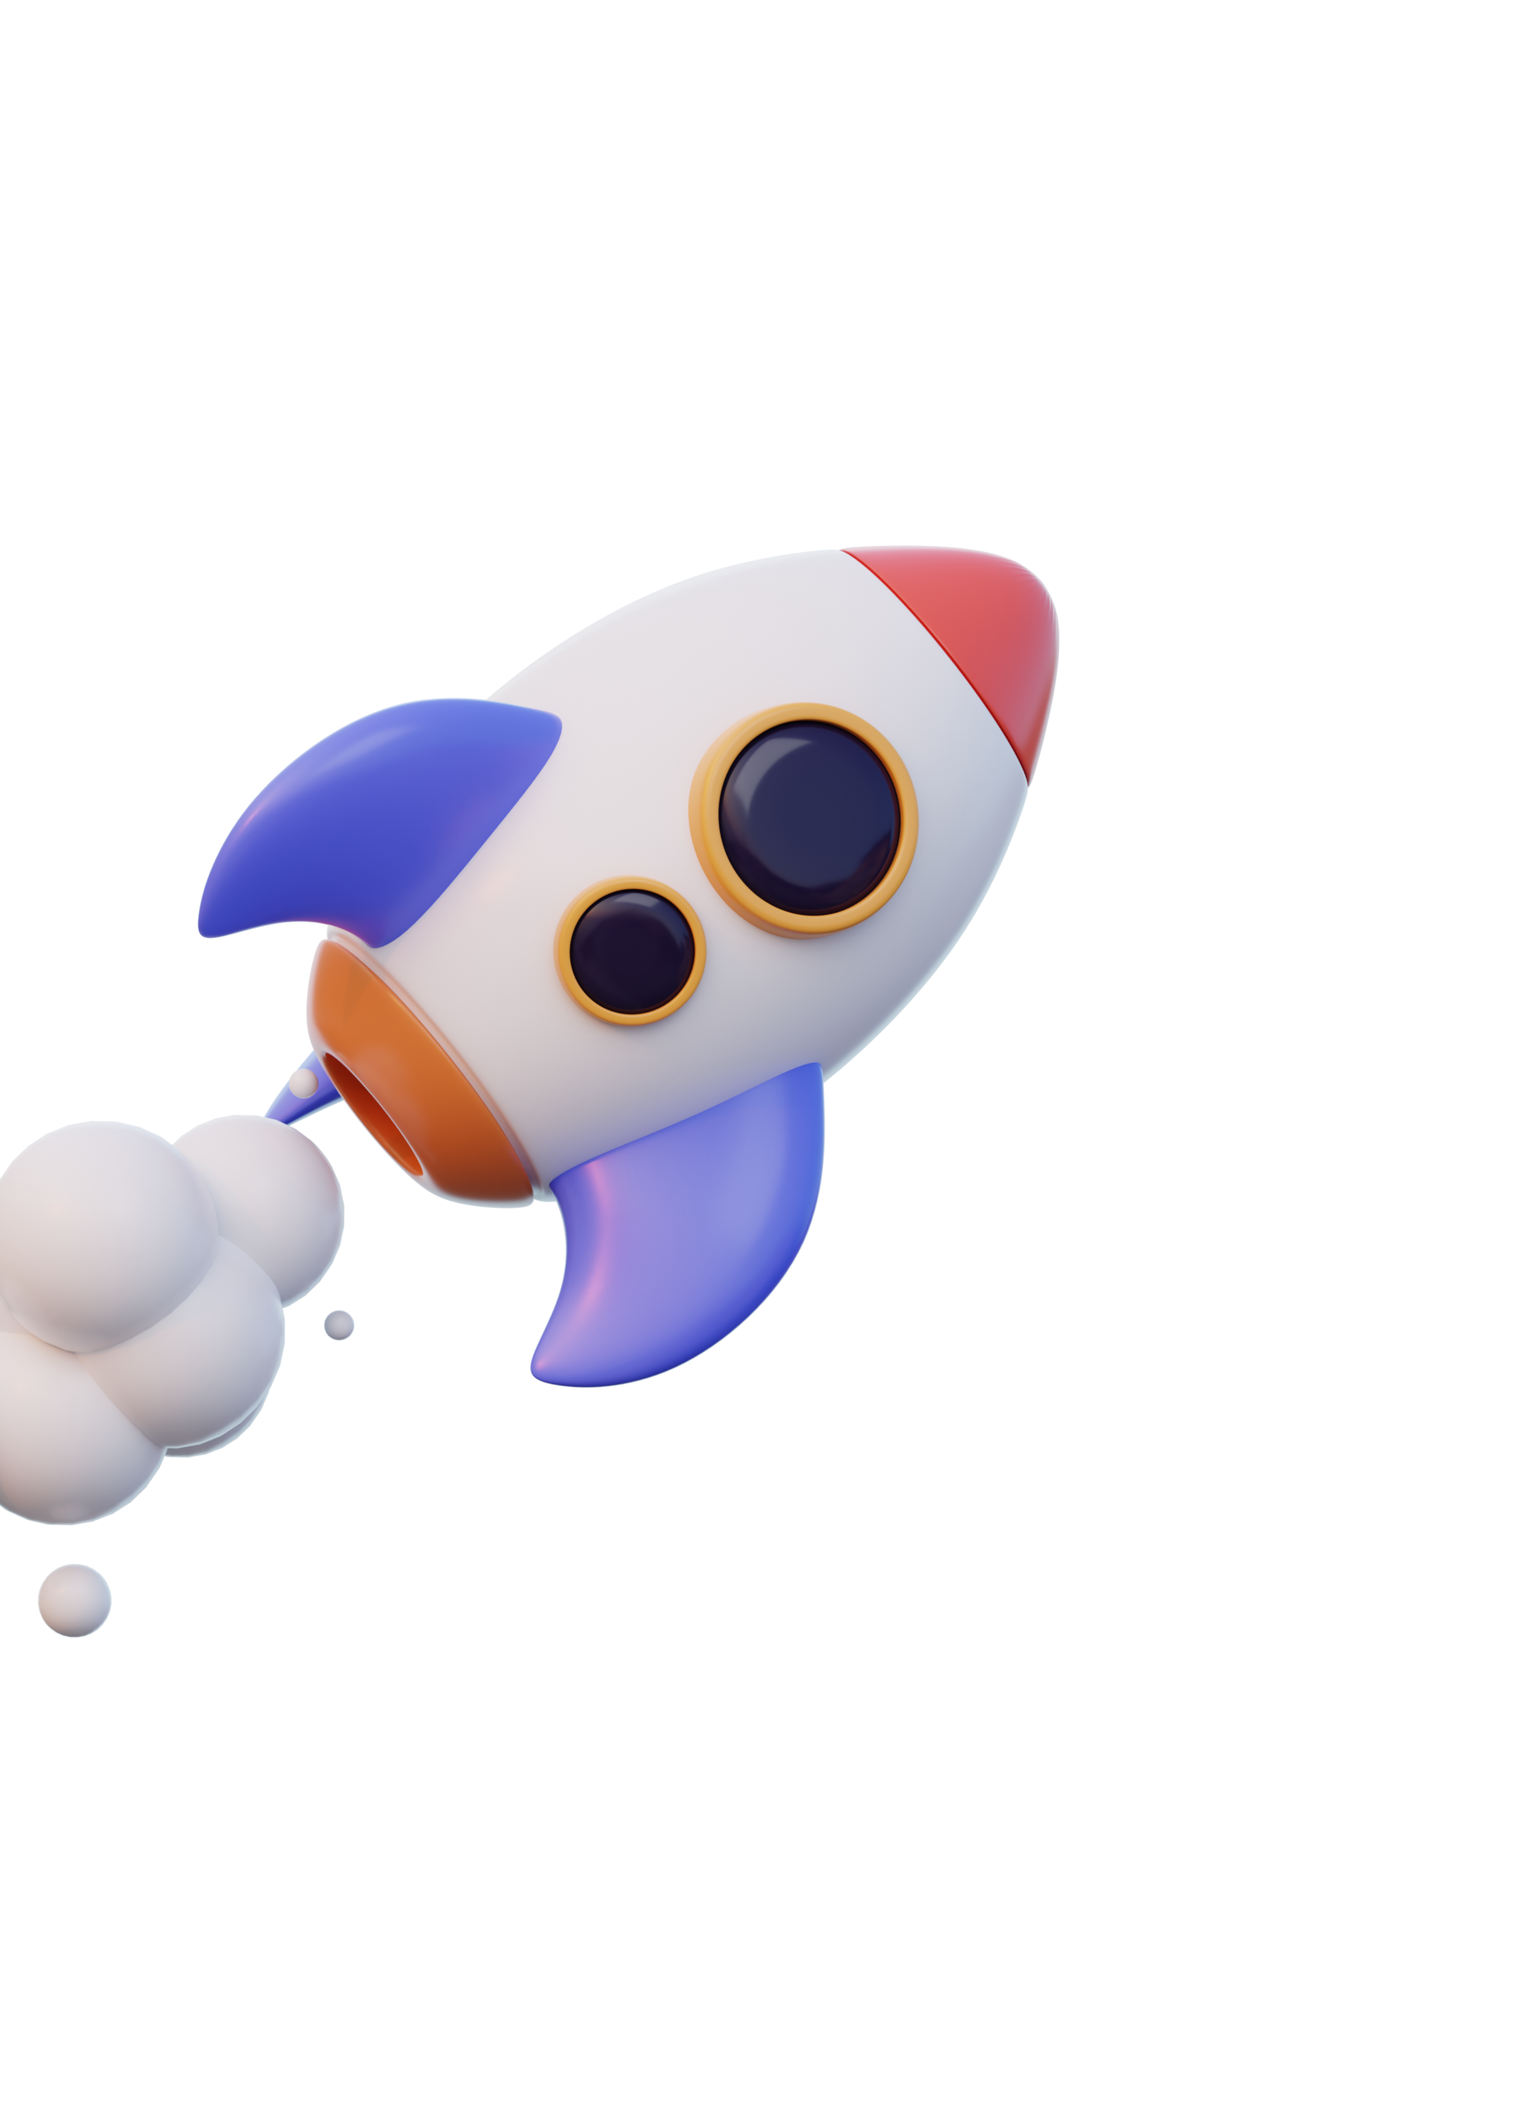
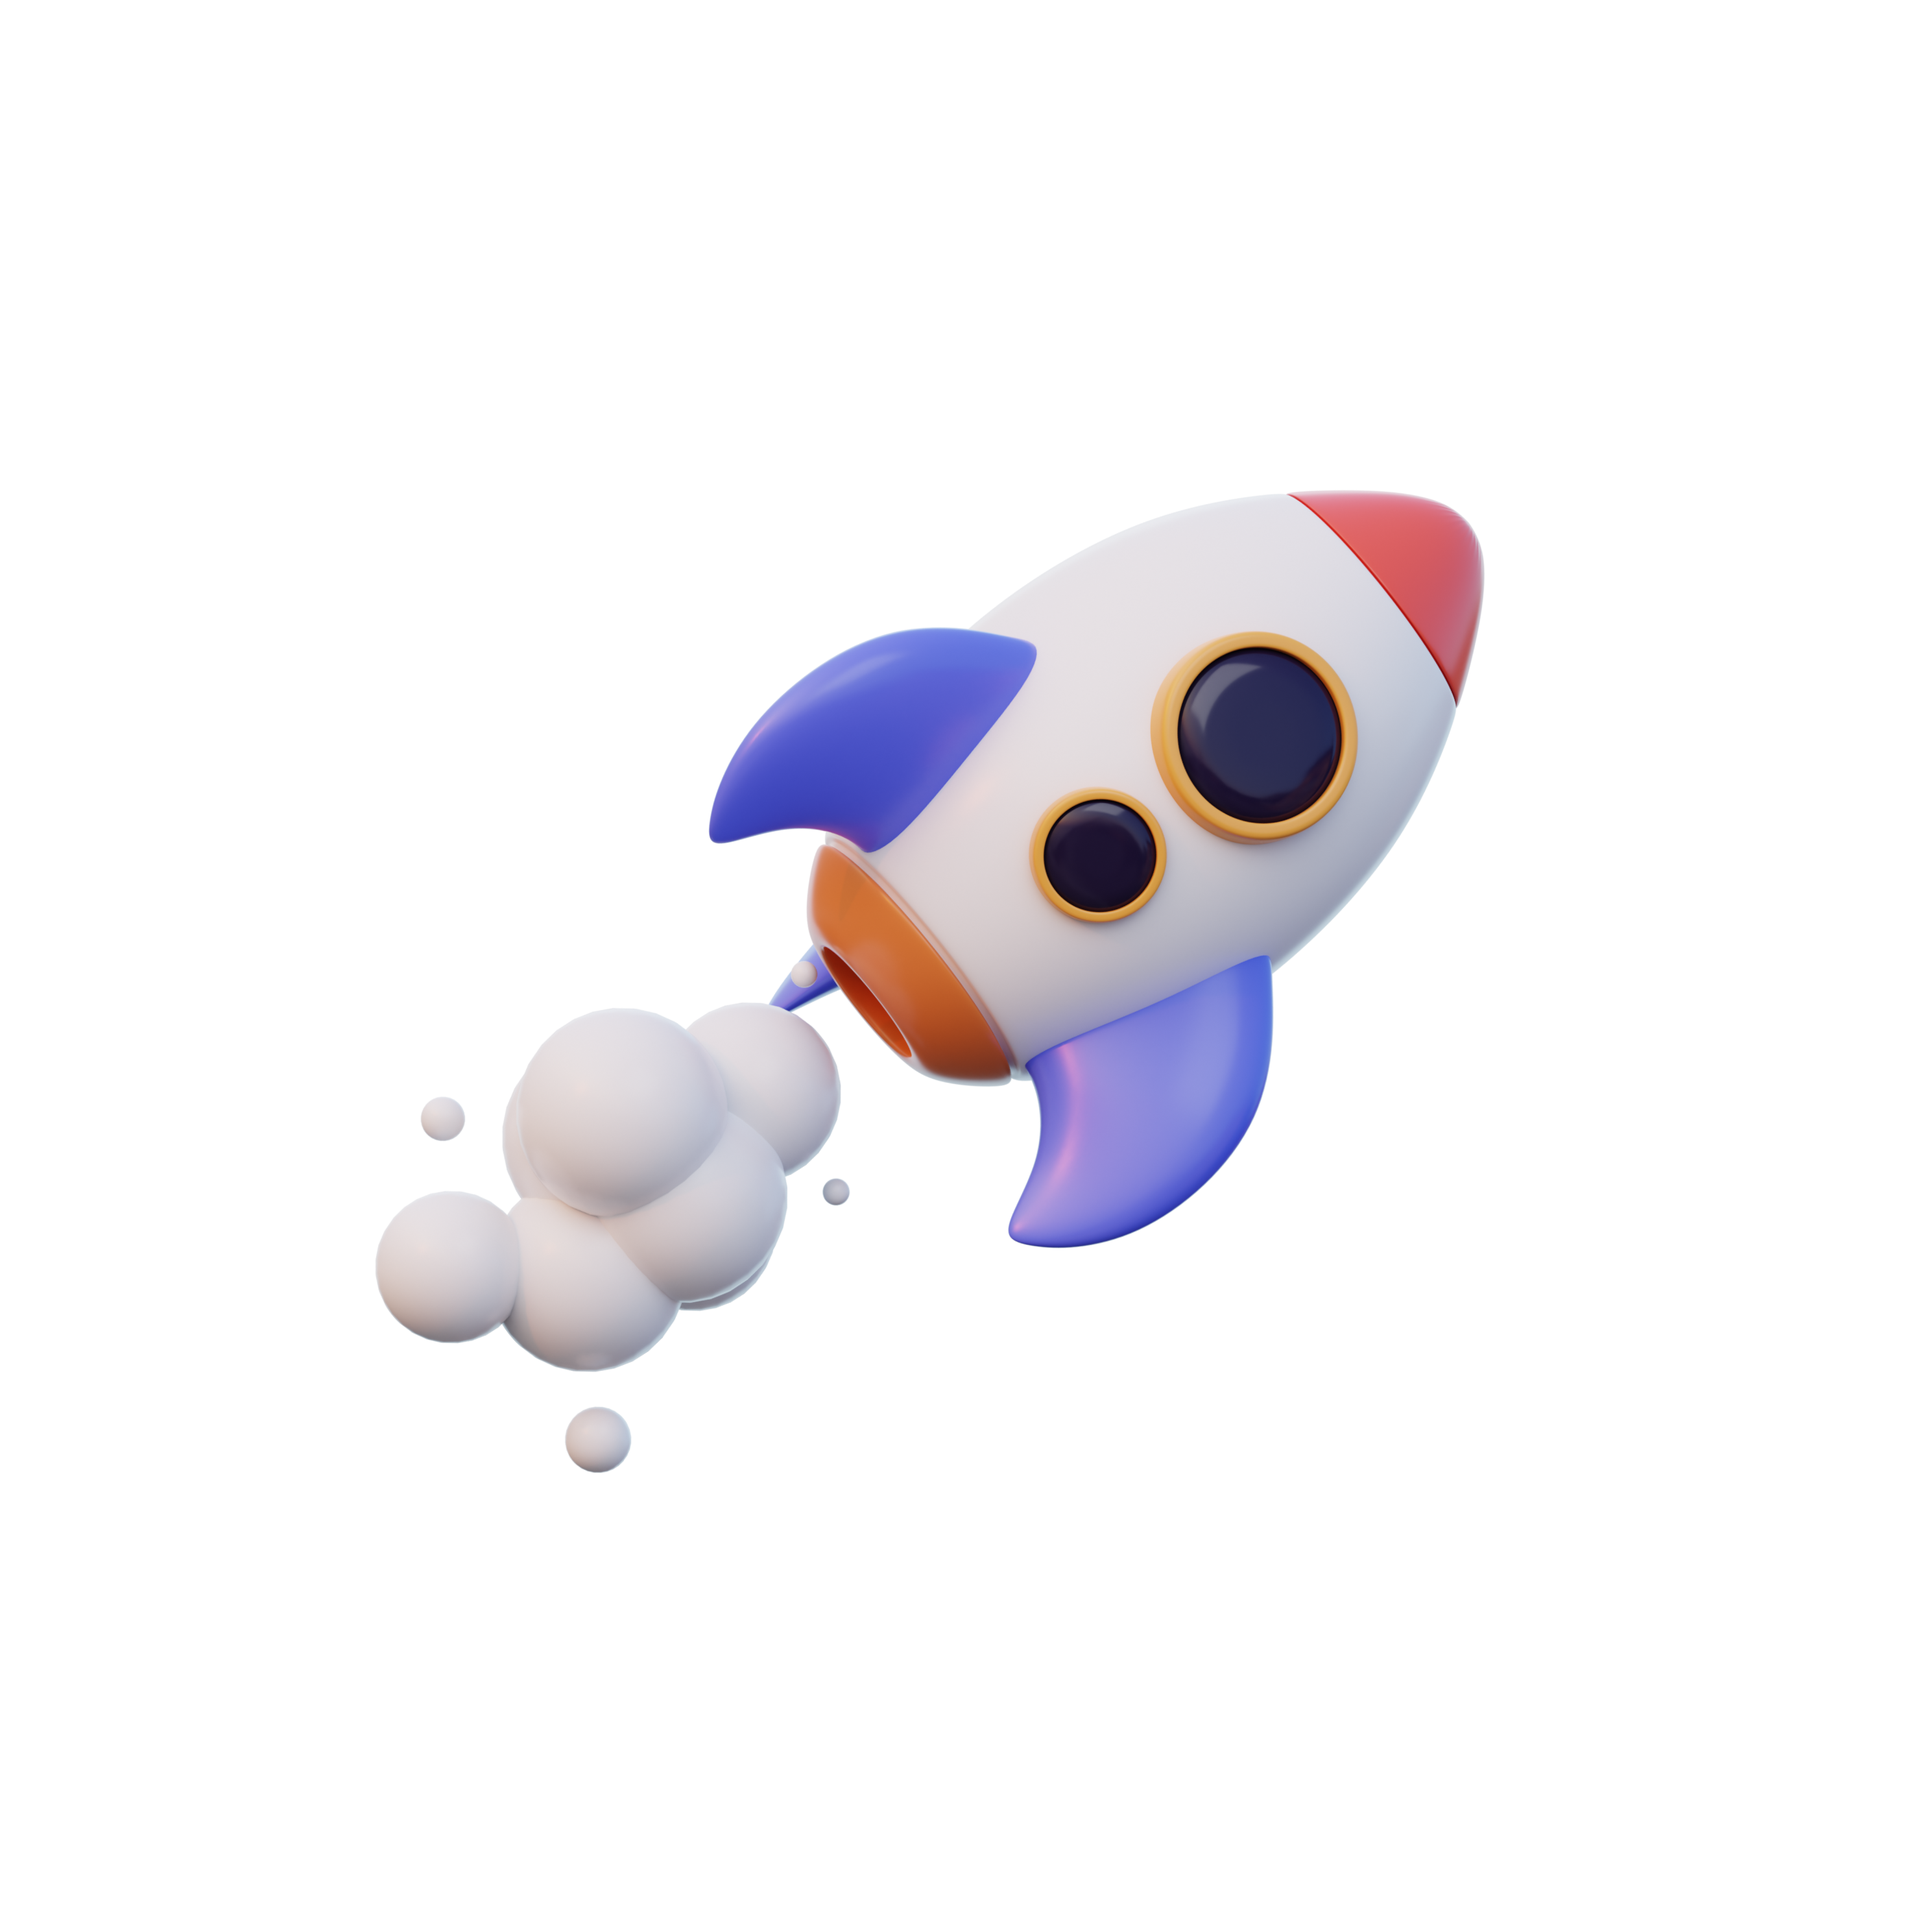
feat: add contact section

Changed region(s): [[0.0, 0.2493, 0.7806, 0.7791]]

diff --git a/components/contact/contact.module.scss b/components/contact/contact.module.scss
@@ -1,0 +1,107 @@
+@import "../../styles/colors.module.scss";
+@import "../../styles/mixins.module.scss";
+
+.contact {
+
+  @include viewport(mobile) {
+    margin-bottom: 40px;
+  }
+
+  &__title {
+    font-size: 56px;
+    font-weight: 900;
+    text-align: center;
+
+    @include viewport(mobile) {
+      font-size: 36px;
+      margin-bottom: 60px;
+    }
+  }
+}
+
+.content {
+  display: flex;
+  flex-direction: row;
+  justify-content: center;
+
+  overflow: hidden;
+
+  @include viewport(mobile) {
+    flex-direction: column-reverse;
+    align-items: center;
+  }
+
+  &__illustration {
+    width: 50vw;
+    height: 50vw;
+    margin-top: -120px;
+
+    @include viewport(tablet) {
+      margin: 0;
+    }
+
+    @include viewport(mobile) {
+      width: 300px;
+      height: 300px;
+    }
+  }
+
+  &__form_container {
+    display: flex;
+    align-items: center;
+  }
+}
+
+.form {
+  display: flex;
+  flex-direction: column;
+  width: 560px;
+
+  @include viewport(mobile) {
+    width: calc(100vw - 80px);
+  }
+
+  & > *:not(:last-child) {
+    margin-bottom: 24px;
+  }
+
+  & input {
+    height: 48px;
+    padding-left: 12px;
+    border: 0;
+    outline: 0;
+    background-color: $color-gray-3;
+  }
+
+  & textarea {
+    height: 160px;
+    padding: 12px;
+    border: 0;
+    outline: 0;
+    resize: none;
+    background-color: $color-gray-3;
+  }
+
+  &__submit_button_container {
+    display: flex;
+    justify-content: flex-end;
+
+    & button {
+      width: 140px;
+      height: 36px;
+      border: 0;
+      background-color: $color-gray-3;
+
+      font-weight: 500;
+      letter-spacing: 1px;
+
+      cursor: pointer;
+      transition: background-color 0.5s ease;
+
+      &:hover {
+        background-color: $color-light;
+        color: $color-dark;
+      }
+    }
+  }
+}

diff --git a/components/contact/contact.tsx b/components/contact/contact.tsx
@@ -1,0 +1,32 @@
+import Image from 'next/image';
+
+import classes from './contact.module.scss';
+
+const ContactSection = () => {
+  return (
+    <div className={classes.contact}>
+      <h2 className={classes.contact__title}>Contact</h2>
+      <div className={`${classes.contact__content} ${classes.content}` }>
+        <div className={classes.content__illustration}>
+          <Image layout='responsive' src='/images/illustrations/illustration-contact.png' width={800} height={800} alt="illustration of contact" />
+        </div>
+        <div className={classes.content__form_container}>
+          <form
+            action="https://formsubmit.co/heng.p.taravann@gmail.com"
+            method="POST"
+            className={classes.form}
+          >
+            <input type="text" name="name" placeholder="Name" required />
+            <input type="email" name="email" placeholder="Email" required />
+            <textarea placeholder="Enter your message here..."></textarea>
+            <div className={classes.form__submit_button_container}>
+              <button type="submit">SEND</button>
+            </div>
+          </form>
+        </div>
+      </div>
+    </div>
+  );
+};
+
+export default ContactSection;

diff --git a/pages/index.tsx b/pages/index.tsx
@@ -1,6 +1,7 @@
 import HeroSection from '../components/hero/hero';
 import SkillsSection from '../components/skills/skills';
 import WorkSection from '../components/work/work';
+import ContactSection from '../components/contact/contact';
 import FooterSection from '../components/footer/footer';
 
 const HomePage = () => {
@@ -9,6 +10,7 @@ const HomePage = () => {
       <HeroSection />
       <SkillsSection />
       <WorkSection />
+      <ContactSection />
       <FooterSection />
     </div>
   );
